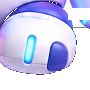
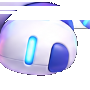
fix(ui): remove white patch above AI+ pill curve and enable swinging leg animation

diff --git a/frontend/src/components/FloatingAIAssistant.tsx b/frontend/src/components/FloatingAIAssistant.tsx
@@ -108,26 +108,65 @@ export function FloatingAIAssistant() {
           whileHover={{ scale: 1.05 }}
           whileTap={{ scale: 0.95 }}
           transition={{ type: 'spring', stiffness: 400, damping: 25 }}
-          className="relative block w-[115px] sm:w-[140px] md:w-[150px] aspect-[622/575] focus:outline-none transition-all drop-shadow-[0_10px_24px_rgba(0,0,0,0.35)] hover:drop-shadow-[0_14px_32px_rgba(236,72,153,0.35)]"
+          className="relative block w-[115px] sm:w-[140px] md:w-[150px] aspect-[621/575] focus:outline-none transition-all drop-shadow-[0_10px_24px_rgba(0,0,0,0.35)] hover:drop-shadow-[0_14px_32px_rgba(236,72,153,0.35)]"
           title="WebinarFlow AI+ Assistant — Click to open"
           aria-label="WebinarFlow AI+ Assistant"
         >
-          {/* Subtle Cute Idle Sway Motion */}
+          {/* Stationary Layer: Robot Torso, Face, Head, Arms & AI+ Pill Button */}
+          <img
+            src="/ai-robot-body.png"
+            alt="WebinarFlow AI+ Robot"
+            className="w-full h-full object-contain pointer-events-none select-none"
+          />
+
+          {/* Left Leg: Gently swings forward and backward */}
           <motion.div
-            className="w-full h-full"
+            className="absolute pointer-events-none"
+            style={{
+              left: `${(232 / 621) * 100}%`,
+              top: `${(320 / 575) * 100}%`,
+              width: `${(85 / 621) * 100}%`,
+              height: `${(85 / 575) * 100}%`,
+              transformOrigin: '50% 12%',
+            }}
             animate={{
-              y: [0, -3.5, 0],
-              rotate: [0, 0.6, 0, -0.6, 0],
+              rotate: [-8, 8, -8],
             }}
             transition={{
-              duration: 3,
+              duration: 2.2,
               repeat: Infinity,
               ease: 'easeInOut',
             }}
           >
             <img
-              src="/ai-robot-clean.png"
-              alt="WebinarFlow AI+ Robot"
+              src="/leg-left.png"
+              alt=""
+              className="w-full h-full object-contain pointer-events-none select-none"
+            />
+          </motion.div>
+
+          {/* Right Leg: Gently swings in alternating idle motion */}
+          <motion.div
+            className="absolute pointer-events-none"
+            style={{
+              left: `${(312 / 621) * 100}%`,
+              top: `${(325 / 575) * 100}%`,
+              width: `${(90 / 621) * 100}%`,
+              height: `${(90 / 575) * 100}%`,
+              transformOrigin: '50% 12%',
+            }}
+            animate={{
+              rotate: [8, -8, 8],
+            }}
+            transition={{
+              duration: 2.2,
+              repeat: Infinity,
+              ease: 'easeInOut',
+            }}
+          >
+            <img
+              src="/leg-right.png"
+              alt=""
               className="w-full h-full object-contain pointer-events-none select-none"
             />
           </motion.div>
